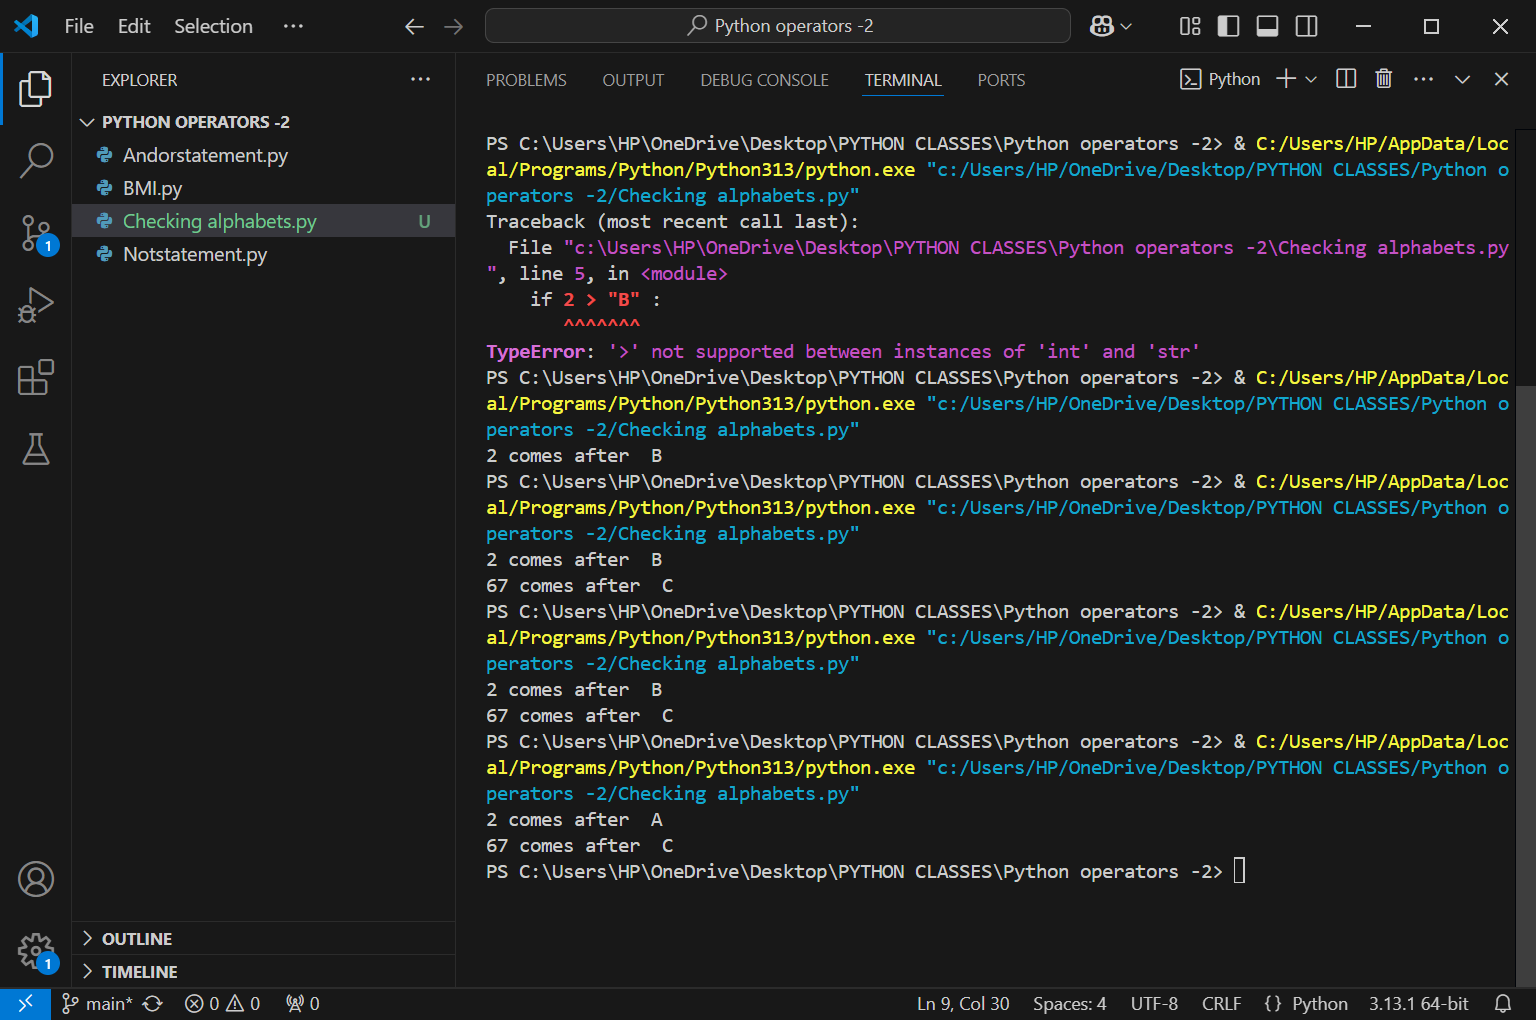
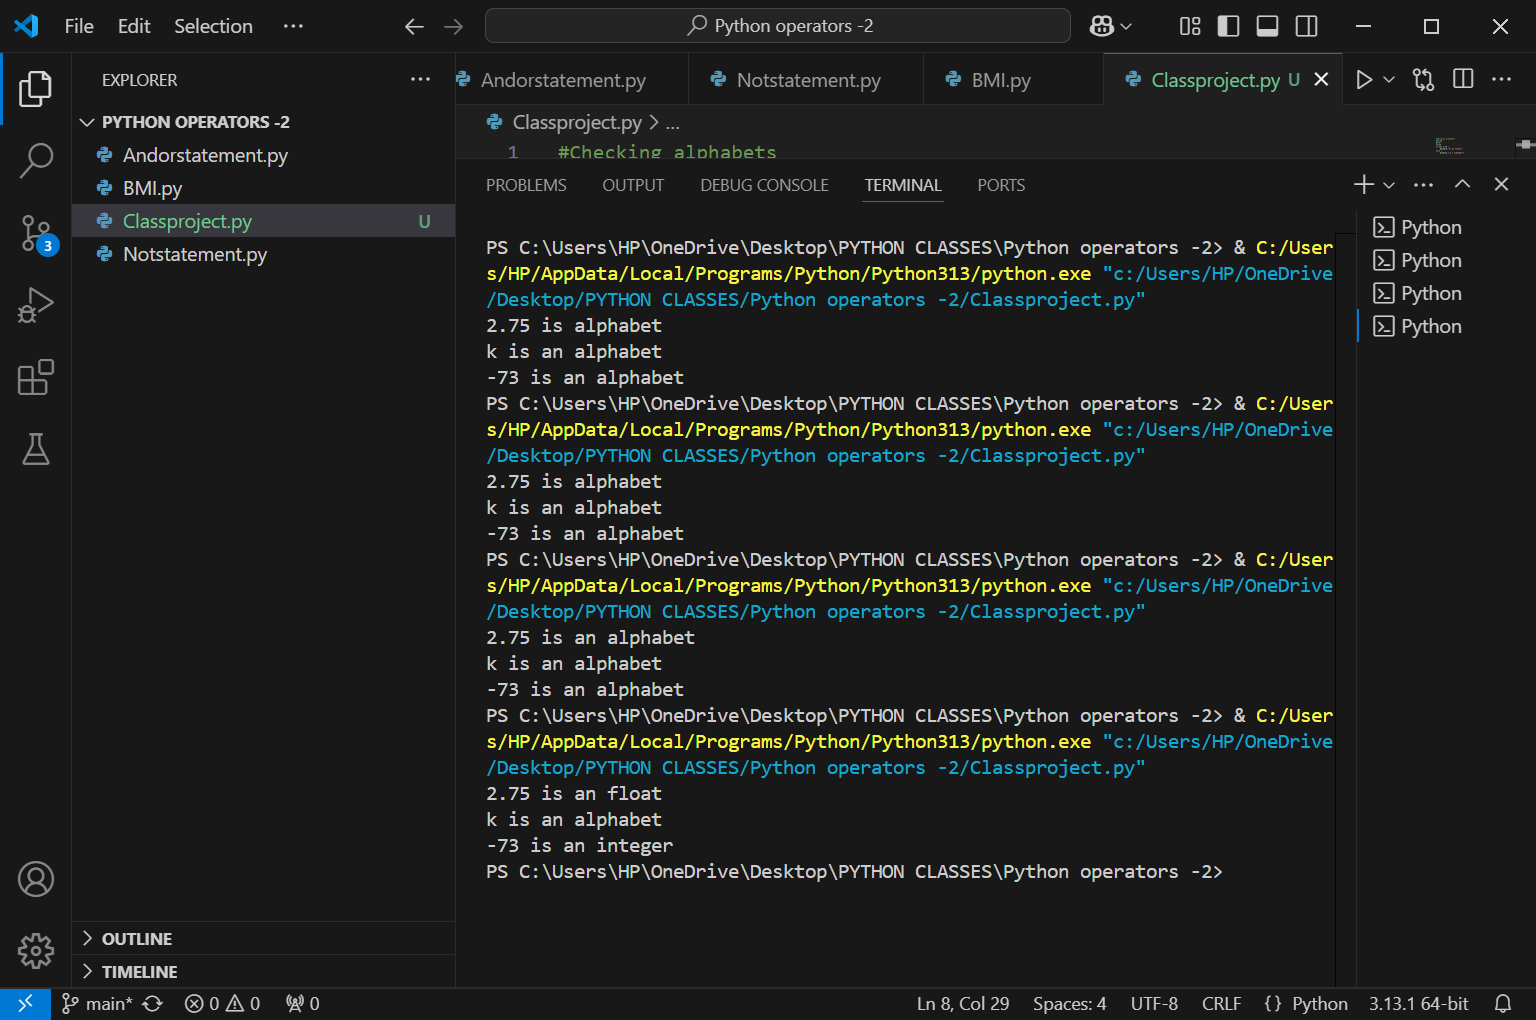
Project

diff --git a/Classproject.py b/Classproject.py
@@ -1,0 +1,19 @@
+#Checking alphabets
+A=2.75
+B="k"
+C=-73
+if A== 2.75 :
+    print(A,"is an float")
+else :
+    print(A,"is a alphabet")
+
+if B== "k" :
+    print(B,"is an alphabet")
+else :
+    print(B,"is an integer")
+
+if C== -73 : 
+    print(C,"is an integer")
+else :
+    print(C,"is an alphabet")
+
